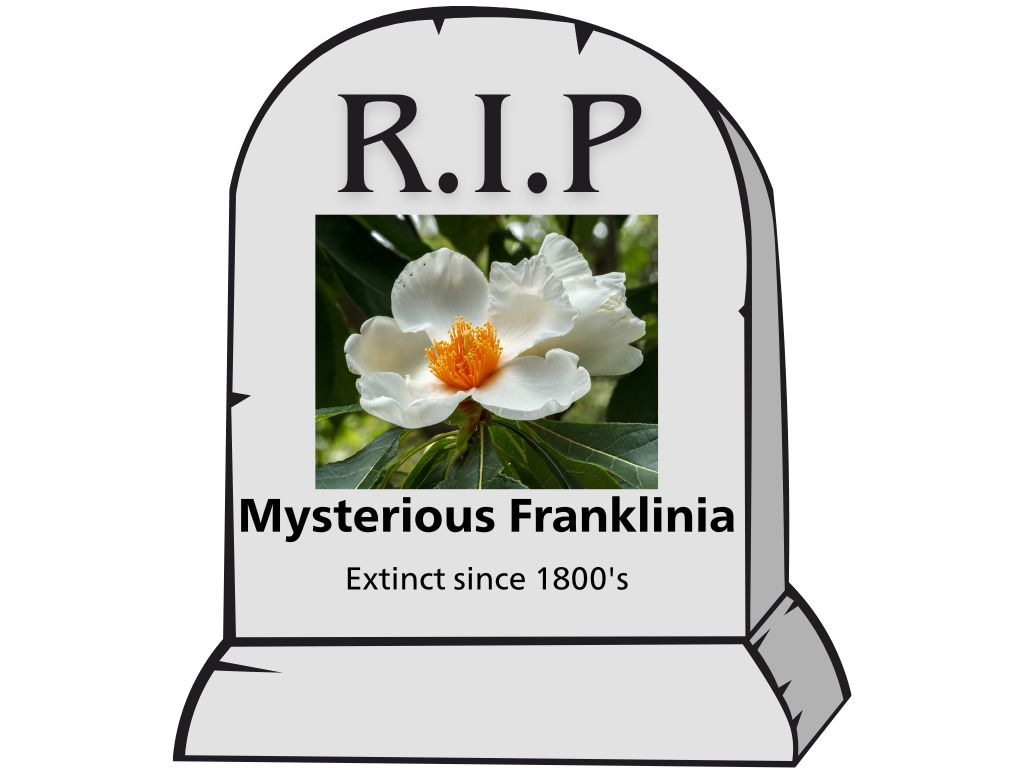
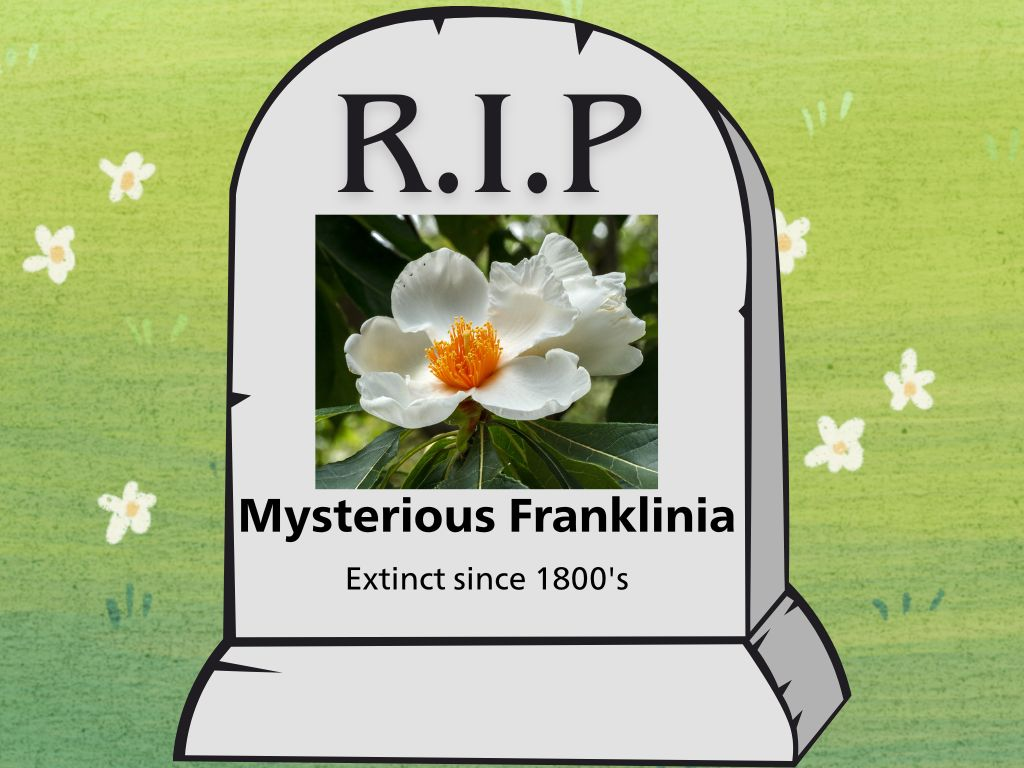
Changed the slideshow
changed the slide show background

diff --git a/index.html b/index.html
@@ -22,7 +22,7 @@
     </div>
 
     <div class="slideshow-container">
-       <img id="slide" src = "assets/slide6.jpg" alt="Slideshow image">
+       <img id="slide" src = "assets/slide1.jpg" alt="Slideshow image">
 
     </div>
 

diff --git a/climateCrisis.js b/climateCrisis.js
@@ -9,7 +9,7 @@ function menuDisplay() {
 }
 
 const images = [
-  "assets/slide6.jpg",
+  "assets/slide1.jpg",
   "assets/slide2.jpg",
   "assets/slide3.jpg",
   "assets/slide4.jpg",
